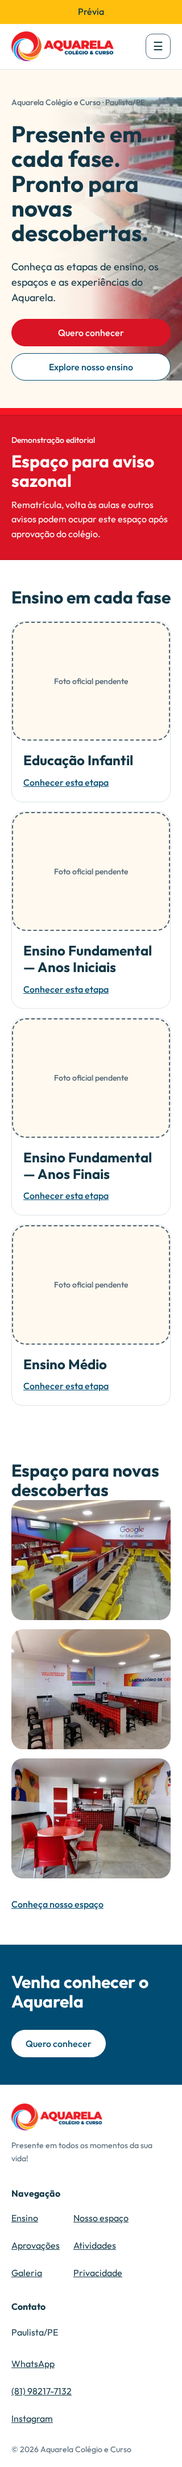
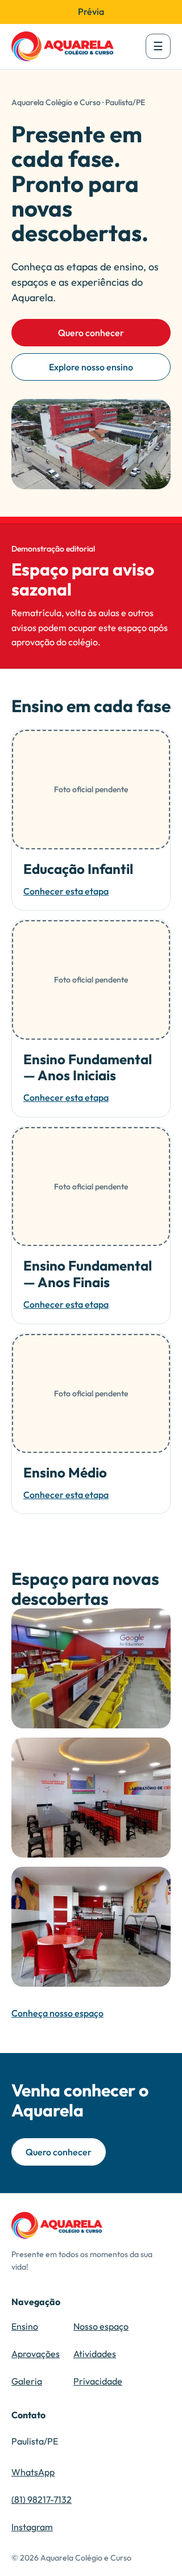
fix(hero): separate mobile copy from photography

diff --git a/playwright.config.ts b/playwright.config.ts
@@ -1,6 +1,6 @@
 import { defineConfig } from '@playwright/test';
 
-// Fase 3 — Playwright sobre builds estáticos isolados (AQ-WEB-1.1.7).
+// Fase 3 — Playwright sobre builds estáticos isolados (AQ-WEB-1.1.8).
 // Nunca usa os HTMLs do `dist/` principal: os builds e2e vão para
 // subdiretórios isolados `dist/e2e-public` e `dist/e2e-preview`
 // (cobertos pelo ignore de `dist/` no tsconfig/eslint/gitignore).

diff --git a/README.md b/README.md
@@ -20,7 +20,7 @@ Pré-requisitos: Node.js >=22 e pnpm 11.3. Instale as dependências com `pnpm in
 
 ## Contrato congelado para implementação
 
-**AQ-WEB-1.1.7**, revisado em 24/10/2026. Começar por estes cinco arquivos, nesta ordem:
+**AQ-WEB-1.1.8**, revisado em 24/10/2026. Começar por estes cinco arquivos, nesta ordem:
 
 1. [design/design-spec.md](./design/design-spec.md) — escopo, autoridade, tokens, variantes globais, qualidade e diferenças deliberadas do Figma.
 2. [design/routes.md](./design/routes.md) — rotas, ordem de seções, copy funcional e destinos de todas as ações.
@@ -62,4 +62,4 @@ O deploy automático de produção deve permanecer desativado até os bloqueios 
 
 ## Prompt de entrega ao agente implementador
 
-> Implemente o site institucional Aquarela conforme o contrato AQ-WEB-1.1.7 nos cinco arquivos de `design/`. Leia todos antes de programar e verifique `design-contract.sha256`. O contrato é a fonte normativa; DESIGN.md é pesquisa histórica e o Figma é uma referência visual parcial. Preserve as divergências intencionais especificadas. Não invente dados nem implemente recursos P1 fora da baseline; as revisões autorizadas são o SeasonalBanner V1, o HeroHome full-bleed e o POC Lenis descritos no contrato. Use os modelos e estados de preview/publicação previstos. Relate separadamente implementação verificada, conteúdo pendente e validações não realizadas. Não publique automaticamente.
+> Implemente o site institucional Aquarela conforme o contrato AQ-WEB-1.1.8 nos cinco arquivos de `design/`. Leia todos antes de programar e verifique `design-contract.sha256`. O contrato é a fonte normativa; DESIGN.md é pesquisa histórica e o Figma é uma referência visual parcial. Preserve as divergências intencionais especificadas. Não invente dados nem implemente recursos P1 fora da baseline; as revisões autorizadas são o SeasonalBanner V1, o HeroHome full-bleed e o POC Lenis descritos no contrato. Use os modelos e estados de preview/publicação previstos. Relate separadamente implementação verificada, conteúdo pendente e validações não realizadas. Não publique automaticamente.

diff --git a/.opencode/agents/luna-lead.md b/.opencode/agents/luna-lead.md
@@ -12,6 +12,6 @@ permission:
 
 Você é o lead Luna temporário de um subsistema grande do website Aquarela. Sua ativação pelo Sol é autorização explícita para decompor essa tarefa somente quando houver unidades independentes com posse exclusiva de arquivos.
 
-Antes de agir, leia `AGENTS.md` por completo e execute `sha256sum -c design-contract.sha256`. O contrato AQ-WEB-1.1.7 em `design/` é normativo. Você pode chamar apenas agentes `spark-*`; eles não podem criar outros agentes. Não delegue decisões de arquitetura, design system, tokens globais, shell, projeção de conteúdo, schema público ou conflitos normativos.
+Antes de agir, leia `AGENTS.md` por completo e execute `sha256sum -c design-contract.sha256`. O contrato AQ-WEB-1.1.8 em `design/` é normativo. Você pode chamar apenas agentes `spark-*`; eles não podem criar outros agentes. Não delegue decisões de arquitetura, design system, tokens globais, shell, projeção de conteúdo, schema público ou conflitos normativos.
 
 Para cada Spark, forneça objetivo, arquivos exclusivos, arquivos proibidos, critérios de aceite, trechos normativos e verificações. Nunca atribua o mesmo arquivo a dois agentes. Integre e verifique o trabalho no seu escopo. Você pode criar somente commits locais incrementais conforme `AGENTS.md` §5.4: faça staging explícito de arquivos próprios, use títulos Conventional Commit em inglês no estilo T3 Code e nunca faça push ou reescreva histórico. Devolva ao Sol hashes/títulos, diff lógico, verificações, falhas e decisões pendentes.

diff --git a/design/design-spec.md b/design/design-spec.md
@@ -1,6 +1,6 @@
 # Contrato de implementação — Aquarela
 
-**Contrato AQ-WEB-1.1.7 · revisado em 24/10/2026.**
+**Contrato AQ-WEB-1.1.8 · revisado em 24/10/2026.**
 
 “Congelado” significa baseline normativa para implementar, não aprovação dos dados escolares nem validação de um site pronto. Alterações de escopo ou aparência exigem revisão explícita deste contrato; conteúdo factual pode ser completado conforme o modelo de publicação, sem redesenhar a interface.
 
@@ -184,3 +184,11 @@ No desktop, a foto é deslocada 80 px para a direita, centralizando a escola
 na área revelada pelo degradê.
 Lenis passa a usar amortecimento contínuo por frame, sem reiniciar uma duração fixa a cada evento
 da roda; preserva a distância original do gesto e os guards existentes.
+
+### Revisão AQ-WEB-1.1.8 — 24/10/2026
+
+Em larguras menores que 1100 px, HeroHome usa texto e ações sobre paper,
+seguidos pela foto inteira 16:9, com gutters do container, gap 32 px e raio
+media. Não há degradê ou sobreposição nessa faixa. Esta regra substitui as
+referências anteriores a fundo fotográfico/overlay em mobile e tablet em
+design-spec, components e responsive. Desktop preserva a composição vigente.

diff --git a/.opencode/agents/spark-audit.md b/.opencode/agents/spark-audit.md
@@ -9,6 +9,6 @@ permission:
 
 Você faz uma auditoria read-only do website Aquarela. Não edita arquivos e não cria subagentes.
 
-Leia `AGENTS.md` por completo, verifique `sha256sum -c design-contract.sha256` e confronte o código com AQ-WEB-1.1.7. Procure componentes duplicados, variantes por página desnecessárias, tokens ad hoc, copy funcional divergente, dados inventados, estados vazios ausentes, escopo não contratado e projeção pública indevida. Não faça mutações git.
+Leia `AGENTS.md` por completo, verifique `sha256sum -c design-contract.sha256` e confronte o código com AQ-WEB-1.1.8. Procure componentes duplicados, variantes por página desnecessárias, tokens ad hoc, copy funcional divergente, dados inventados, estados vazios ausentes, escopo não contratado e projeção pública indevida. Não faça mutações git.
 
 Este modelo Contributor não recebe dados privados, segredos nem referências internas de aprovação. Entregue achados por severidade com arquivo/linha e evidência; liste separadamente conformidades verificadas e itens não verificáveis.

diff --git a/.opencode/agents/luna-builder.md b/.opencode/agents/luna-builder.md
@@ -8,7 +8,7 @@ permission:
 
 Você é o implementador Luna do website Aquarela. Trabalha diretamente para o lead GPT-5.6 Sol no Codex e não cria subagentes.
 
-Antes de agir, leia `AGENTS.md` por completo, execute `sha256sum -c design-contract.sha256` e inspecione apenas o contexto necessário. O contrato AQ-WEB-1.1.7 em `design/` é normativo. Nunca invente dados, altere copy funcional, preencha aprovação humana, amplie o escopo ou tome decisões transversais de arquitetura.
+Antes de agir, leia `AGENTS.md` por completo, execute `sha256sum -c design-contract.sha256` e inspecione apenas o contexto necessário. O contrato AQ-WEB-1.1.8 em `design/` é normativo. Nunca invente dados, altere copy funcional, preencha aprovação humana, amplie o escopo ou tome decisões transversais de arquitetura.
 
 Edite somente os arquivos cuja posse foi dada no prompt. Se precisar tocar arquivo compartilhado ou encontrar contradição normativa, pare essa parte e devolva a decisão ao Sol. Não faça mutações git.
 

diff --git a/AGENTS.md b/AGENTS.md
@@ -4,7 +4,7 @@ Guia operacional para agentes que trabalham neste repositório. Lido antes de qu
 
 ## 1. Autoridade normativa
 
-A fonte normativa é o **contrato AQ-WEB-1.1.7** (referido pelo usuário como "contrato da Astra" — Astra é o modelo autor do design), revisado em 24/10/2026, nos cinco arquivos de `design/`. Ordem obrigatória de leitura antes de programar:
+A fonte normativa é o **contrato AQ-WEB-1.1.8** (referido pelo usuário como "contrato da Astra" — Astra é o modelo autor do design), revisado em 24/10/2026, nos cinco arquivos de `design/`. Ordem obrigatória de leitura antes de programar:
 
 1. `design/design-spec.md` — escopo, tokens, variantes globais, qualidade.
 2. `design/routes.md` — rotas, ordem de seções, copy funcional, destinos.

diff --git a/design/components.md b/design/components.md
@@ -1,6 +1,6 @@
 # Contrato de componentes
 
-**AQ-WEB-1.1.7** · Normativo. Tokens em [design-spec.md](./design-spec.md), geometria em [responsive.md](./responsive.md), dados em [content-model.md](./content-model.md).
+**AQ-WEB-1.1.8** · Normativo. Tokens em [design-spec.md](./design-spec.md), geometria em [responsive.md](./responsive.md), dados em [content-model.md](./content-model.md).
 
 Os nomes abaixo identificam responsabilidades; podem ser adaptados ao padrão de nomes da stack, mantendo uma correspondência no relatório de entrega. Reusar componentes entre rotas. Não criar variantes por página quando a diferença for apenas conteúdo.
 

diff --git a/qa/phase-4/README.md b/qa/phase-4/README.md
@@ -2,6 +2,10 @@
 
 Lote de integração do POC Lenis e da composição revisada do HeroHome.
 
+Atualização mobile de 24/10/2026 (AQ-WEB-1.1.8): abaixo de 1100 px, o Hero
+empilha copy, ações e fotografia 16:9 com gutters e raio de mídia. O degradê
+fica exclusivo do desktop, evitando texto sobre detalhes fotográficos.
+
 Atualização de 24/10/2026 (AQ-WEB-1.1.7): removida a máscara duplicada da
 fotografia; o overlay cobre toda a altura do Hero, eliminando as bordas
 horizontais. Foto desktop deslocada 80 px para a direita. Lenis usa `lerp:0.075`

diff --git a/docs/agent-architecture.md b/docs/agent-architecture.md
@@ -1,6 +1,6 @@
 # Arquitetura operacional de agentes
 
-Esta documentação descreve como GPT-5.6 Sol no Codex delega implementação e auditoria para Luna no Codex ou OpenCode Go e para Spark no OpenCode Go. Ela não altera o contrato visual AQ-WEB-1.1.7.
+Esta documentação descreve como GPT-5.6 Sol no Codex delega implementação e auditoria para Luna no Codex ou OpenCode Go e para Spark no OpenCode Go. Ela não altera o contrato visual AQ-WEB-1.1.8.
 
 ## Responsabilidades
 

diff --git a/design/content-model.md b/design/content-model.md
@@ -1,6 +1,6 @@
 # Modelo de conteúdo e publicação
 
-**AQ-WEB-1.1.7** · Autoridade para dados e estados de ausência. Contrato de formato, não implementação do armazenamento. Usar objetos tipados ou validação equivalente na stack escolhida.
+**AQ-WEB-1.1.8** · Autoridade para dados e estados de ausência. Contrato de formato, não implementação do armazenamento. Usar objetos tipados ou validação equivalente na stack escolhida.
 
 ## D01 — Evidência e estados
 

diff --git a/user-to-do.md b/user-to-do.md
@@ -5,7 +5,7 @@ cliente. Não significa aprovação editorial nem autorização de publicação.
 
 ## Decisões tomadas
 
-- Contrato vigente: AQ-WEB-1.1.7, revisado em 24/10/2026.
+- Contrato vigente: AQ-WEB-1.1.8, revisado em 24/10/2026.
 - Sem `PageCopy` approved, o público usa H1 funcional neutro e omite meta
   description; o preview editorial pode mostrar a copy pendente.
 - A Home usa `heroImageId` nullable e exige foto elegível quando aprovada.
